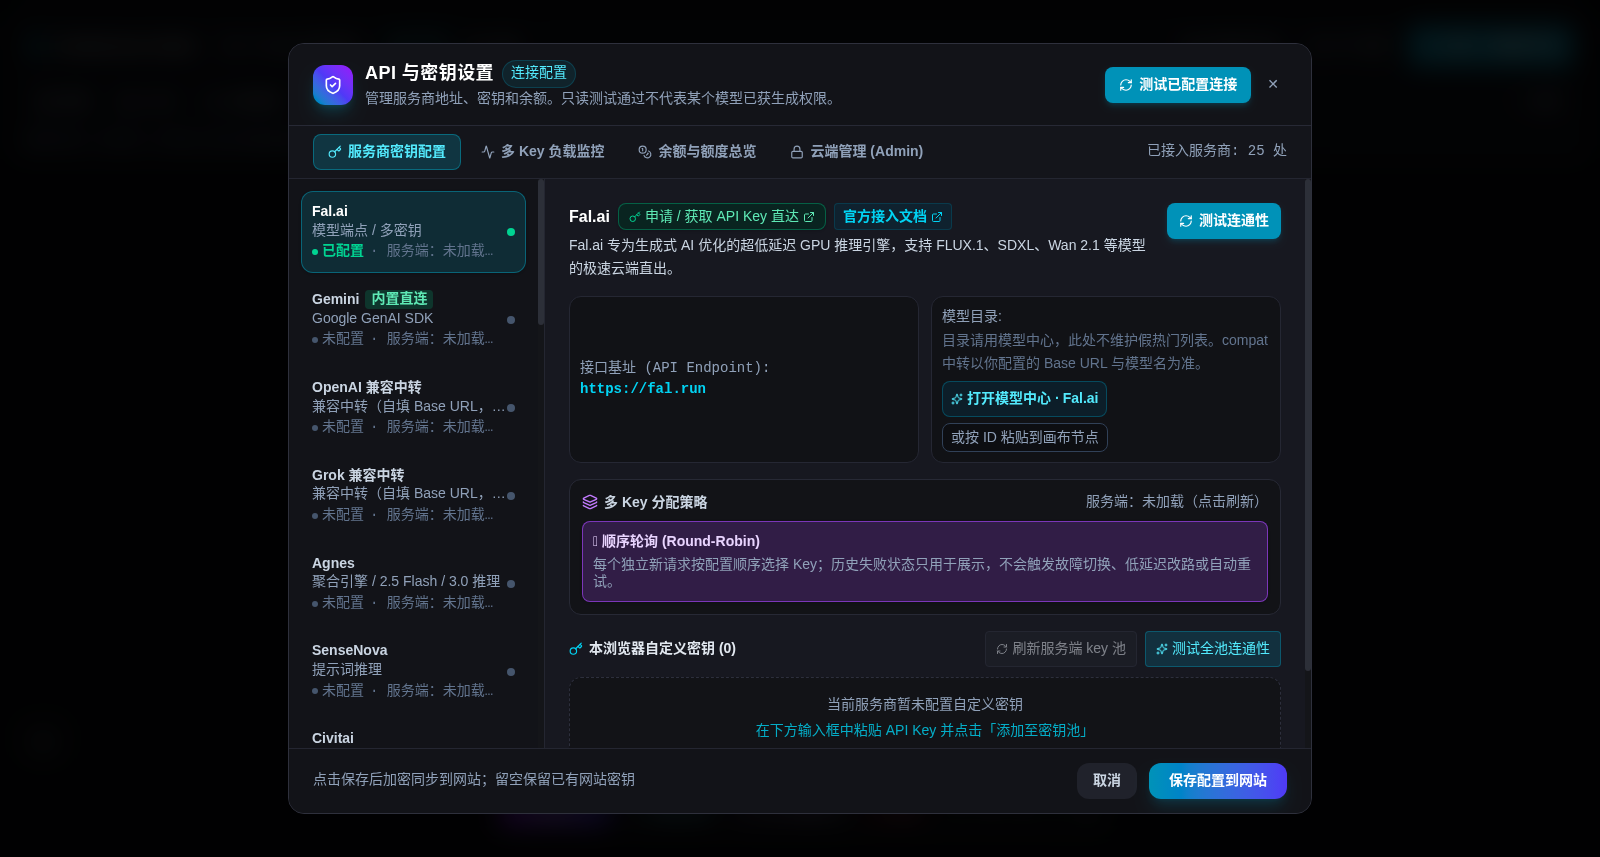
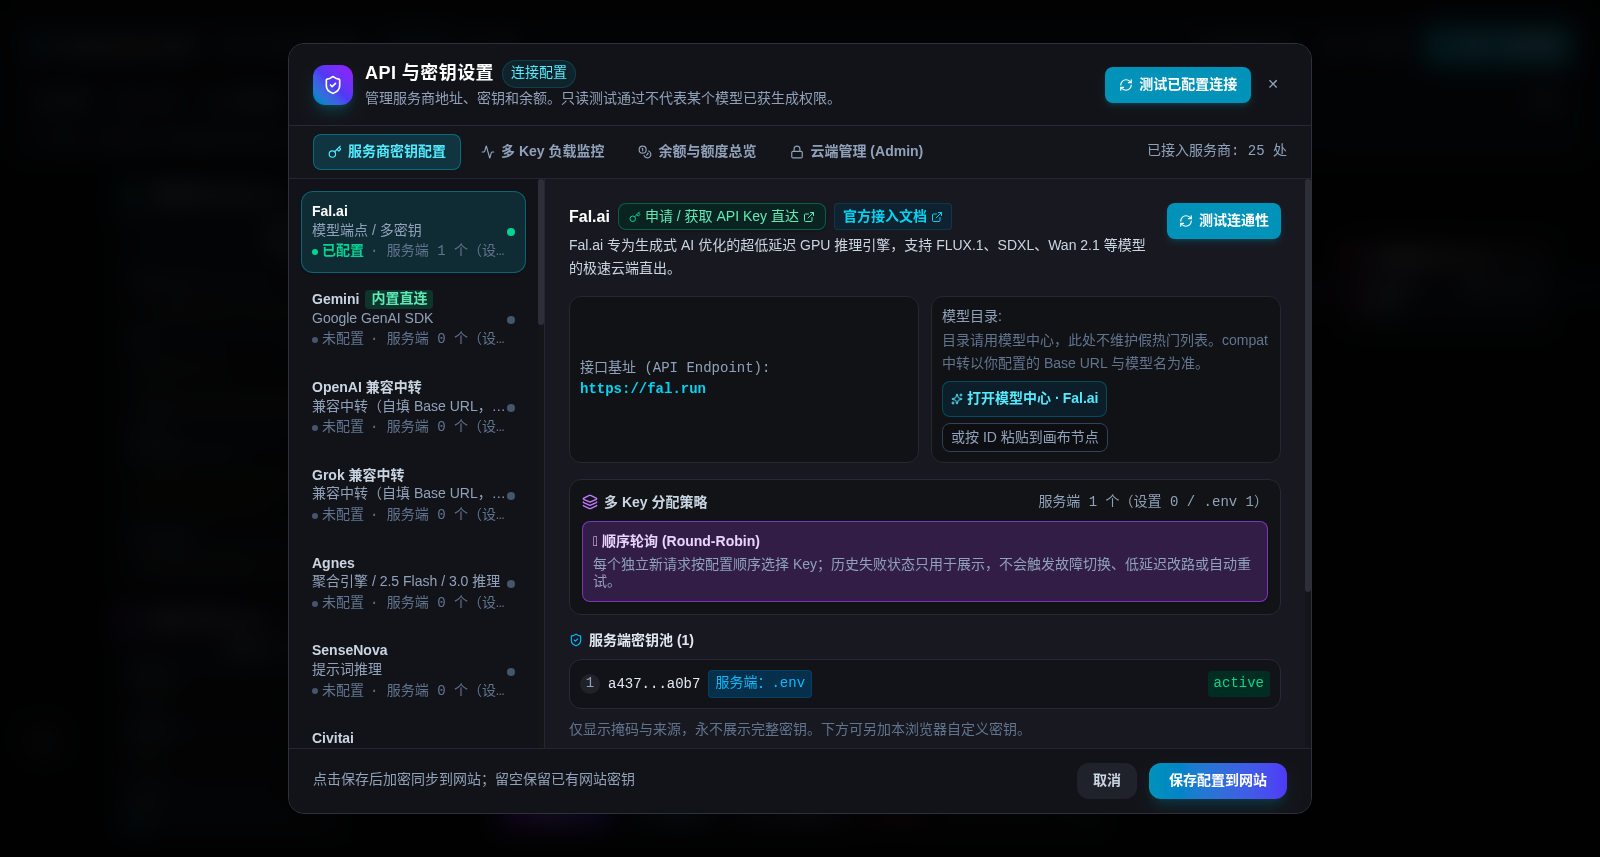
docs(evidence): retake api settings screenshots with admin auth and remove server stack paths

diff --git a/docs/evidence/2026-11-05/ui.md b/docs/evidence/2026-11-05/ui.md
@@ -165,8 +165,8 @@
 ### 改造后实机截图索引（已脱敏归档并纳入版本跟踪：`docs/evidence/2026-11-05/ui/`）
 - [`01-landing.png`](./ui/01-landing.png)：改造后首次打开页面（中文友好节点标题：`画布尺寸设定 (Latent)`、`正向提示词 (CLIP)`、`图像解码器 (VAE Decode)`；中文字段：`图像宽度`、`图像高度`、`生成张数`、`随机种子`、`运行后控制`、`步数`、`采样器`、`调度器`、`去噪强度`）
 - [`02-blank-canvas-onboarding.png`](./ui/02-blank-canvas-onboarding.png)：清空画布后的 6 步新手入门引导卡片
-- [`03-api-settings-enhanced.png`](./ui/03-api-settings-enhanced.png)：改造后的「API 与密钥设置」弹窗（显示实时 ● 已配置 / ○ 未配置、官方 API Key 直达链接）
-- [`04-api-settings-tested.png`](./ui/04-api-settings-tested.png)：测试连通性后的即时透明状态反馈
+- [`03-api-settings-enhanced.png`](./ui/03-api-settings-enhanced.png)：改造后的「API 与密钥设置」弹窗（显示真实 ● 已配置 / ○ 未配置状态、官方 API Key 直达链接及服务端密钥池加载情况）
+- [`04-api-settings-tested.png`](./ui/04-api-settings-tested.png)：点击「测试已配置连接」后的真实连通性反馈（Fal.ai 账单接口返回 HTTP 403 权限说明及 374ms 真实时延，未配置服务商显示未配置标记，绝不伪造成功）
 - [`05-loaded-standard-workflow.png`](./ui/05-loaded-standard-workflow.png)：在空状态引导卡上一键加载标准工作流
 - [`06-run-result-1.png`](./ui/06-run-result-1.png)：Hugging Face + LoRA 生成运行及透明错误披露
 - [`07-workflow-modal.png`](./ui/07-workflow-modal.png)：工作流与热门模型中心
